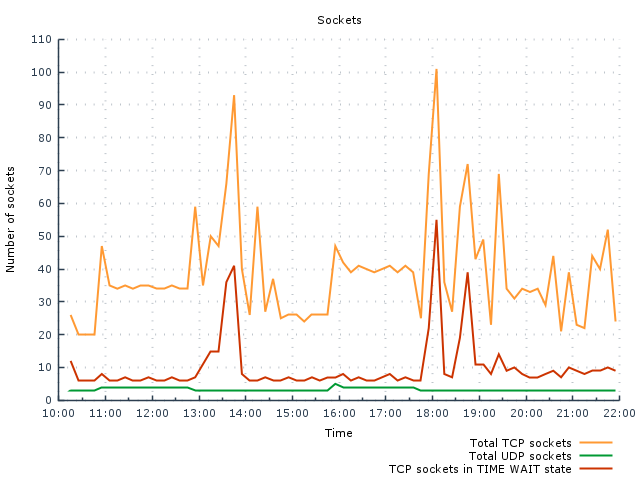
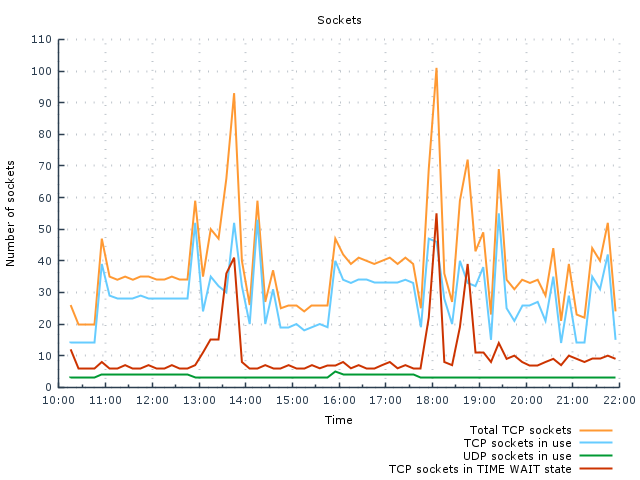
Improved sockets statistics

diff --git a/plotters/matplotlib/sockets.py b/plotters/matplotlib/sockets.py
@@ -29,7 +29,8 @@ plt.gcf().autofmt_xdate()
 x = []
 # Data arrays
 t_tcp = []
-t_udp = []
+t_tcp_use = []
+t_udp_use = []
 t_tcp_time_wait = []
 
 # ======================
@@ -46,12 +47,14 @@ def generate_graph():
             x.append((a))
             # The remaining columns contain data
             t_tcp.append(str((int(row[2]))+(int(row[6]))))
-            t_udp.append(row[3])
+            t_tcp_use.append(row[2])
+            t_udp_use.append(row[3])
             t_tcp_time_wait.append(row[6])
     
     # Plot lines
     plt.plot(x,t_tcp, label='Total TCP sockets', color='#ff9933', antialiased=True)
-    plt.plot(x,t_udp, label='Total UDP sockets', color='#009933', antialiased=True)
+    plt.plot(x,t_tcp_use, label='TCP sockets in use', color='#66ccff', antialiased=True)
+    plt.plot(x,t_udp_use, label='UDP sockets in use', color='#009933', antialiased=True)
     plt.plot(x,t_tcp_time_wait, label='TCP sockets in TIME WAIT state', color='#cc3300', antialiased=True)
     
     # Graph properties
